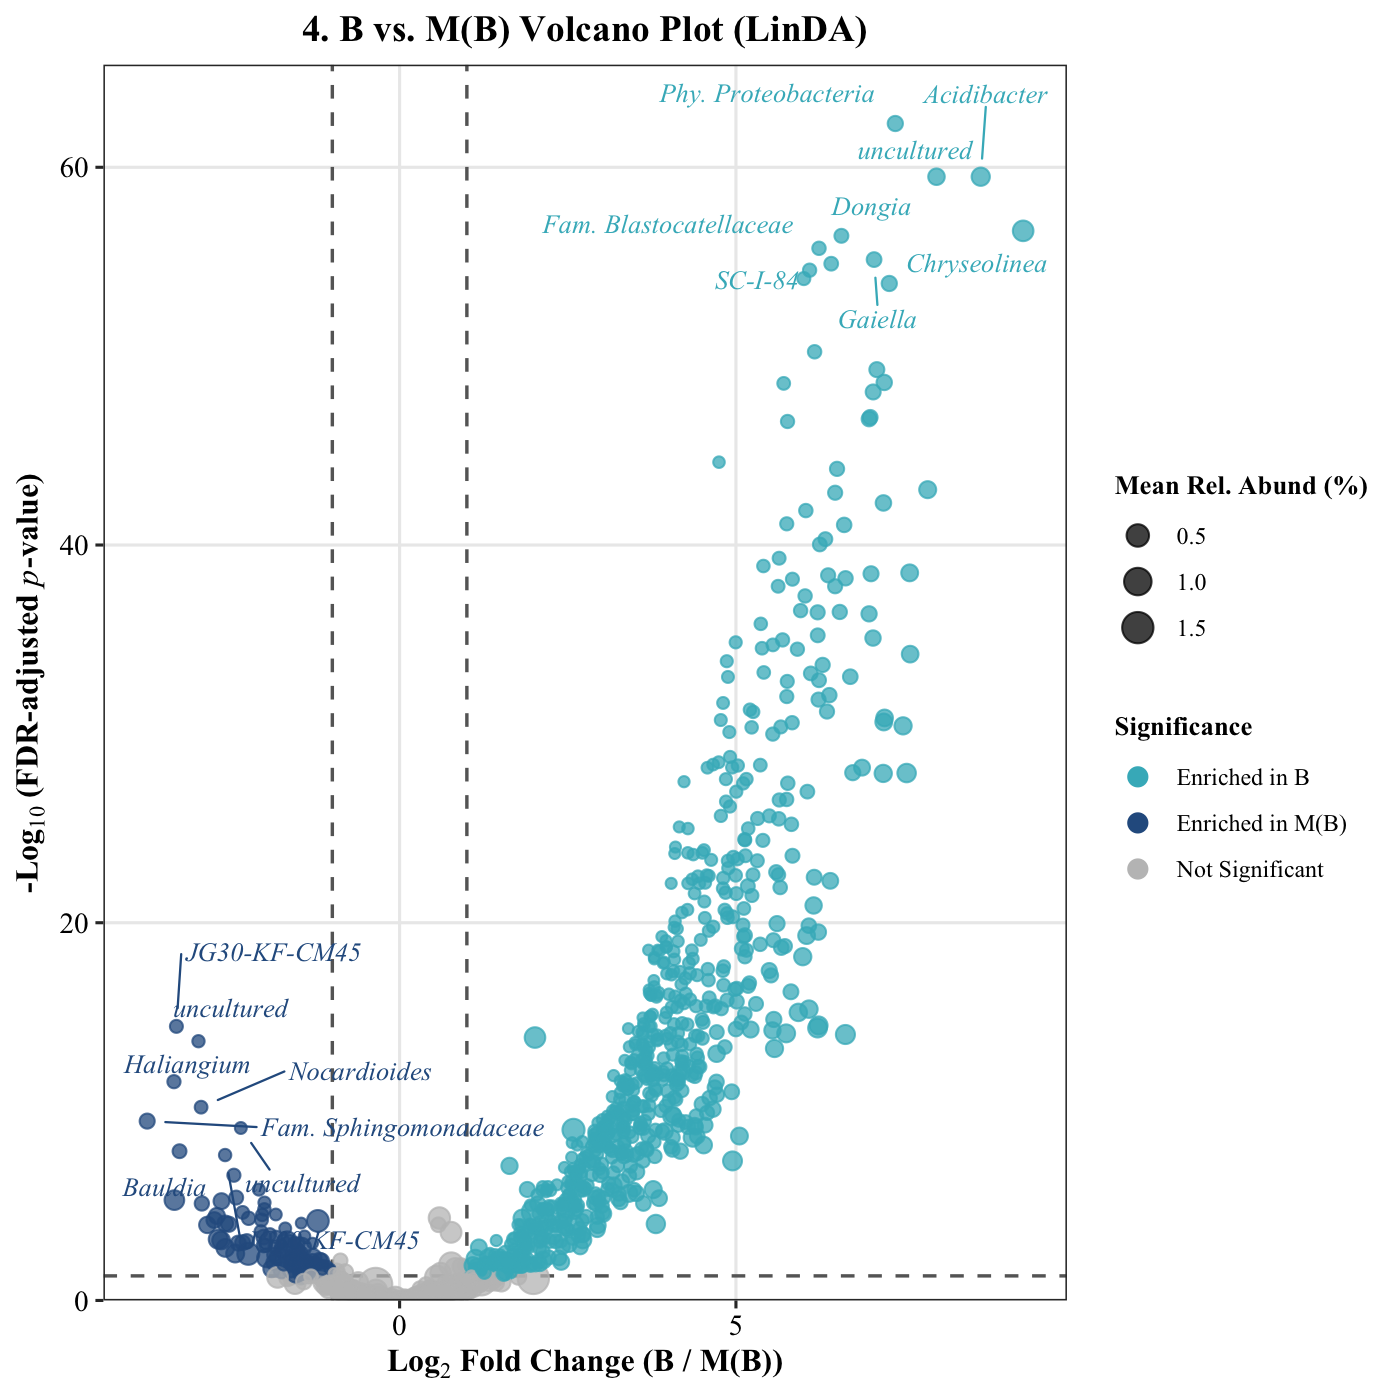
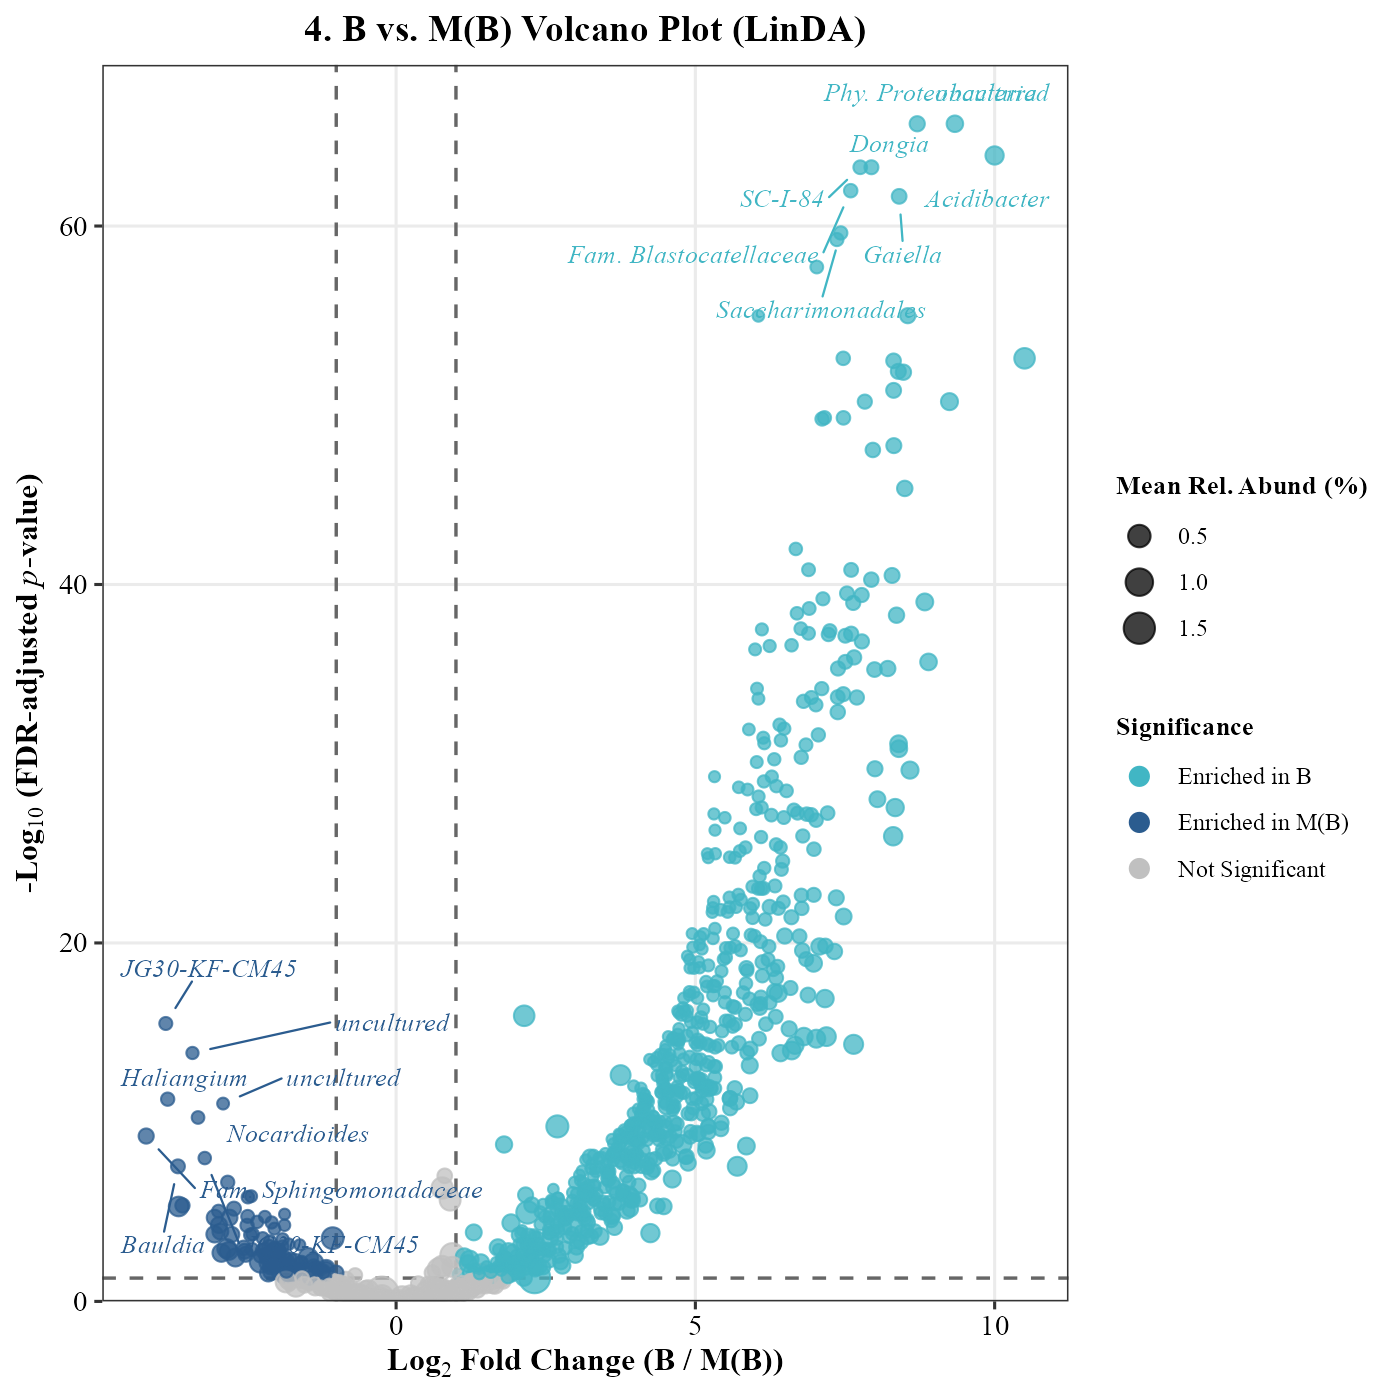
Rerun LinDA on the unrarefied table with imputed zeros; update figures 078-084

diff --git a/logs/2026-08-24_01_Differential_Abundance_and_PICRUSt2.md b/logs/2026-08-24_01_Differential_Abundance_and_PICRUSt2.md
@@ -1,11 +1,12 @@
 # Differential Abundance (LinDA) and PICRUSt2 Pathways (N = 110)
 
 **Date:** 2026-08-24
+**Updated:** 2026-11-16 (Sections 1–3 rerun on the unrarefied table; Figures 078–084 replaced)
 **Stage:** LinDA for each contrast; most enriched and depleted ASVs; fold-change heatmap; group-exclusive ASVs; differential abundance of PICRUSt2 pathways; pathway heatmap
 **Cohort:** five batches, original labels; N = 110 (`GB_Control` 33, `GB_Treatment` 33, `GJ_Control` 22, `GJ_Treatment` 22). The exclusive-ASV table (Section 4) is from the six-batch set (N = 134).
 **Script:** `modules/13_linda_and_picrust2_functional.R`; the same code is in `pipeline/run_analysis.R` (sections 4-1 to "PICRUSt2 Sample-Level Heatmap")
 **Platform:** R 4.6.1 (`aarch64-apple-darwin23`)
-**Input:** `07_diversity_16S/core_metrics/rarefied_table.qza`, `05_taxonomy_16S/taxonomy_16S.qza`, `picrust2_out_16S/pathways_out/path_abun_unstrat.tsv.gz`, `metadata_P_generation.tsv`
+**Input:** `05_taxonomy_16S/table_16S_clean.qza` (Sections 1–3), `07_diversity_16S/core_metrics/rarefied_table.qza` (Section 4), `05_taxonomy_16S/taxonomy_16S.qza`, `picrust2_out_16S/pathways_out/path_abun_unstrat.tsv.gz`, `metadata_P_generation.tsv`
 
 ---
 
@@ -16,50 +17,62 @@ Each treatment was compared with its own control (GB: 33 vs 33; GJ: 22 vs 22), w
 ```r
 set.seed(42)
 linda_res <- linda(
-  feature.dat = counts_gb,      # rarefied counts, GB samples only
+  feature.dat = counts_gb,      # unrarefied counts, GB samples only
   meta.dat = meta_linda,
   formula = "~ Treatment_Group",
   alpha = 0.05,
   prev.filter = 0.10,
-  mean.abund.filter = 0.0001
+  mean.abund.filter = 0.0001,
+  adaptive = FALSE,
+  zero.handling = "imputation"
 )
 ```
 
-* Input: the rarefied 16S table (27,000 reads per sample).
+* Input: the unrarefied, taxonomy-filtered 16S table (`05_taxonomy_16S/table_16S_clean.qza`; 27,237–156,196 reads per sample). LinDA corrects for read depth itself, so the rarefied table is not needed.
+* Zeros were imputed (`zero.handling = "imputation"`). Treated samples had fewer reads than their controls (median 69,404 vs 78,025 in GB; 50,307 vs 79,835 in GJ), and LinDA's own check (the default `adaptive = TRUE`) selected imputation in both contrasts. With `adaptive = TRUE`, MicrobiomeStat 1.4 printed "Imputation approach is used.", but its results differed from a run with imputation set explicitly (21 GB and 57 GJ ASVs changed their call). Imputation was therefore set explicitly (`adaptive = FALSE`).
 * ASVs present in fewer than 10% of the samples of a contrast were removed (`prev.filter = 0.10`).
 * No set or batch term was included in the model.
 * ASVs with FDR-adjusted p < 0.05 and log2FC ≥ 1 were called enriched in the treatment; those with FDR < 0.05 and log2FC ≤ −1 were called enriched in the control (depleted).
+* Full results were written to `LinDA_ASV_GB_Treatment_vs_GB_Control.csv` and `LinDA_ASV_GJ_Treatment_vs_GJ_Control.csv` (not in the repository).
+
+| | GB | GJ |
+| :--- | ---: | ---: |
+| ASVs tested | 1,496 | 1,358 |
+| Enriched in the treatment | 735 | 698 |
+| Enriched in the control (depleted) | 121 | 99 |
 
 ![B vs. M(B) volcano plot](../assets/078_16S_GB_Volcano_Plot.png)
 
 ![J vs. M(J) volcano plot](../assets/079_16S_GJ_Volcano_Plot.png)
 
 * In both contrasts, many more ASVs were enriched in the treated group than in the control.
-* **GB (Figure 078):** −log10(FDR) up to about 62, with log2FC up to about 9. Labelled enriched ASVs: *Acidibacter*, *Dongia*, *Chryseolinea*, *Gaiella*, SC-I-84, a Blastocatellaceae ASV, an "uncultured" ASV and an ASV classified only to Proteobacteria. Labelled depleted ASVs: *Haliangium*, *Bauldia*, *Nocardioides*, a Sphingomonadaceae ASV, JG30-KF-CM45 and "uncultured" ASVs.
-* **GJ (Figure 079):** −log10(FDR) up to about 48. Labelled enriched ASVs: *Porphyrobacter*, *Dokdonella*, *Pseudolabrys*, WD2101_soil_group, *Sphingomonas*, *Gemmatimonas*, Pir4_lineage and JGI_0001001-H03. Labelled depleted ASVs: Xanthobacteraceae, Sphingomonadaceae and Devosiaceae ASVs, *Parafilimonas*, *Anaeromyxobacter*, *Candidatus* Solibacter, and other *Pseudolabrys* and *Acidibacter* ASVs.
+* **GB (Figure 078):** −log10(FDR) up to 65.7; log2FC from −4.2 to 10.5. Labelled enriched ASVs: an "uncultured" ASV, an ASV classified only to Proteobacteria, *Acidibacter*, *Dongia*, SC-I-84, a Blastocatellaceae ASV, *Gaiella* and Saccharimonadales. Labelled depleted ASVs: two JG30-KF-CM45 ASVs, *Haliangium*, *Nocardioides*, a Sphingomonadaceae ASV, *Bauldia* and two "uncultured" ASVs.
+* **GJ (Figure 079):** −log10(FDR) up to 53.8; log2FC from −5.4 to 11.0. Labelled enriched ASVs: *Porphyrobacter*, JGI_0001001-H03, *Pseudolabrys*, *Gemmatimonas*, Pir4_lineage, *Dokdonella*, WD2101_soil_group and *Sphingomonas*. Labelled depleted ASVs: Xanthobacteraceae, Sphingomonadaceae and Devosiaceae ASVs, *Pseudolabrys*, *Acidibacter*, *Anaeromyxobacter*, *Parafilimonas* and an "uncultured" ASV.
+
+**Earlier version.** Until 2026-11-16, Sections 1–3 used the rarefied table (27,000 reads per sample, about 37% of the clean reads) with LinDA's default zero handling. The overall pattern and most labelled taxa were the same; the numbers of significant ASVs were not recorded.
 
 ---
 
 ## 2. Most enriched and most depleted ASVs
 
-For each contrast, the 20 enriched ASVs with the largest log2FC and the 20 depleted ASVs with the most negative log2FC are shown as relative abundance per sample. ASV IDs are given as their first five characters.
+For each contrast, the 20 enriched ASVs with the largest log2FC and the 20 depleted ASVs with the most negative log2FC are shown as relative abundance per sample (unrarefied table). ASV IDs are given as their first five characters.
 
 ![Top 20 enriched ASVs, GB](../assets/080_16S_GB_Top20_LargeShift_Taxa_Boxplot.png)
 
 ![Top 20 enriched ASVs, GJ](../assets/081_16S_GJ_Top20_LargeShift_Taxa_Boxplot.png)
 
-* **GB (Figure 080):** for example *Chryseolinea* (`8e3a6`), *Acidibacter* (`c1b63`), "uncultured" (`d9c97`), *Candidatus* Adlerbacteria (`939b3`), BIrii41 (`1b36c`), *Cerasicoccus* (`21f4c`) and *Terrimonas* (`7e4b8`). In `GB_Control` these ASVs were absent or present at low levels; the highest control values, about 0.15%, were for WD2101_soil_group (`744f6`) and *Lacunisphaera* (`f65a2`).
-* **GJ (Figure 081):** for example WD2101_soil_group (`6cb5d`), Blastocatellaceae (`64c85`, `3230d`), *Streptomyces* (`93120`), *Pseudolabrys* (`4ea1e`), *Candidatus* Kaiserbacteria (`adc5e`), Parcubacteria (`4f235`), *Dokdonella* (`df21d`) and *Porphyrobacter* (`d8831`). In `GJ_Control` these ASVs were absent or present at about 0.05% or less in a few samples.
+* **GB (Figure 080):** for example *Chryseolinea* (`8e3a6`), *Acidibacter* (`c1b63`), "uncultured" (`d9c97`), *Candidatus* Adlerbacteria (`939b3`), BIrii41 (`1b36c`), *Cerasicoccus* (`21f4c`) and *Terrimonas* (`7e4b8`). Ten of the 20 ASVs were not detected in any `GB_Control` sample, and the others were found in at most 5 of 33 controls; the highest control value was 0.14% (*Lacunisphaera*, `f65a2`). All 20 were present in at least 32 of the 33 treated plants.
+* **GJ (Figure 081):** for example WD2101_soil_group (`6cb5d`), Blastocatellaceae (`64c85`, `3230d`), *Streptomyces* (`93120`), *Pseudolabrys* (`4ea1e`), *Candidatus* Kaiserbacteria (`adc5e`), Parcubacteria (`4f235`), *Dokdonella* (`df21d`) and *Porphyrobacter* (`d8831`). Fifteen of the 20 ASVs were not detected in any `GJ_Control` sample, and the others were found in at most 4 of 22 controls, at 0.04% or less. All 20 were present in at least 21 of the 22 treated plants.
 
-These ASVs were absent or rare in the controls and present in most treated plants. This is consistent with their introduction by the soil suspensions. The soil suspensions themselves are not among the sequenced samples, so their source is not shown directly.
+These ASVs were absent or rare in the controls and present in almost all treated plants. This is consistent with their introduction by the soil suspensions. The soil suspensions themselves are not among the sequenced samples, so their source is not shown directly.
 
 ![Top 20 depleted ASVs, GB](../assets/082_16S_GB_Top20_N_LargeShift_Taxa_Boxplot.png)
 
 ![Top 20 depleted ASVs, GJ](../assets/083_16S_GJ_Top20_N_LargeShift_Taxa_Boxplot.png)
 
-* **GB (Figure 082):** for example Sphingomonadaceae (`059bb`, `04c66`), *Haliangium* (`88d07`), *Bauldia* (`6a8af`, `62e24`), *Nocardioides* (`d4ce3`, `5375e`, `9785a`), JG30-KF-CM45 (`aeb74`, `fabea`) and *Parafilimonas* (`487ed`).
+* **GB (Figure 082):** for example Sphingomonadaceae (`059bb`, `04c66`), *Haliangium* (`88d07`), *Bauldia* (`6a8af`, `62e24`), *Nocardioides* (`d4ce3`, `5375e`), JG30-KF-CM45 (`aeb74`, `fabea`) and *Parafilimonas* (`487ed`).
 * **GJ (Figure 083):** for example Sphingomonadaceae (`04c66`, `059bb`, `07822`), Xanthobacteraceae (`f8ce1`), Devosiaceae (`430ec`), *Gemmata* (`73c81`), *Parafilimonas* (`487ed`), *Pseudolabrys* (`e038b`) and *Candidatus* Solibacter (`36ff8`).
-* Some depleted ASVs were not detected in any treated sample (for example *Nocardioides* `d4ce3`, JG30-KF-CM45 `fabea` and "uncultured" `24bdb` in GB; Xanthobacteraceae `f8ce1` in GJ). Others remained at low levels in some treated plants (for example Sphingomonadaceae `059bb`, up to about 0.09% in GB).
+* Some depleted ASVs were not detected in any treated sample (GB: "uncultured" `24bdb`, *Nocardioides* `d4ce3`, JG30-KF-CM45 `fabea` and Rhizobiaceae `3eb74`; GJ: Xanthobacteraceae `f8ce1` and *Pseudolabrys* `e038b`). Others remained at low levels in some treated plants (for example Sphingomonadaceae `059bb`, in 7 of 33 GB-treated plants at up to 0.07%).
 * Relative abundances cannot distinguish a loss of these taxa from dilution by the taxa added with the soil.
 
 ---
@@ -68,9 +81,9 @@ These ASVs were absent or rare in the controls and present in most treated plant
 
 ![LinDA heatmap](../assets/084_16S_Heatmap.png)
 
-* Rows: all ASVs enriched or depleted (FDR < 0.05, |log2FC| ≥ 1) in at least one contrast. Rows are clustered (Euclidean distance, complete linkage); values are clamped to ±8.
+* Rows: the 1,373 ASVs enriched or depleted (FDR < 0.05, |log2FC| ≥ 1) in at least one contrast. Rows are clustered (Euclidean distance, complete linkage); values are clamped to ±8.
 * An ASV missing from one contrast's output (for example because it was removed by the prevalence filter) is shown as 0 (`values_fill = 0`). A white cell can therefore mean "no change" or "not tested".
-* The largest block contains ASVs that are higher in `GB_Treatment` only. Other blocks contain ASVs higher in `GJ_Treatment` only, ASVs higher in both treatments, and smaller groups of ASVs lower in one or both treatments.
+* The largest groups are ASVs enriched only in `GB_Treatment` (484) and only in `GJ_Treatment` (447), followed by ASVs enriched in both treatments (247). Most ASVs in the one-contrast groups were not tested in the other contrast (432 of the 484 and 387 of the 447). Smaller groups are depleted in GB only (92), in GJ only (70) or in both (25); 8 ASVs changed in opposite directions.
 
 ---
 

diff --git a/README.md b/README.md
@@ -110,7 +110,7 @@ Steps 1–6 were run in QIIME 2 2024.10; steps 7–10 in R 4.6.1 unless stated. 
 5. **16S tree** with MAFFT and FastTree, midpoint-rooted (`align-to-tree-mafft-fasttree`). No ITS2 tree.
 6. **Rarefaction and core diversity metrics:** 27,000 reads per sample (16S) and 8,600 (ITS2).
 7. **Alpha and beta diversity:** observed features, Shannon, Gini–Simpson and Faith's PD; Kruskal–Wallis tests with FDR-adjusted pairwise Wilcoxon tests. PCoA (`cmdscale`) and NMDS (`vegan::metaMDS`, k = 2). PERMANOVA (`vegan::adonis2`, `~ Treatment_Group`, 999 permutations, `set.seed(42)`) and dispersion tests (`betadisper`, `permutest`).
-8. **Differential abundance of ASVs** with LinDA (`MicrobiomeStat::linda`) on the rarefied table, `~ Treatment_Group`, separately for `GB_Treatment` vs `GB_Control` and `GJ_Treatment` vs `GJ_Control`. ASVs in fewer than 10% of samples were removed (`prev.filter = 0.10`, `mean.abund.filter = 0.0001`). Significance: FDR < 0.05 and |log2FC| ≥ 1. The model has no batch or set term.
+8. **Differential abundance of ASVs** with LinDA (`MicrobiomeStat::linda`) on the unrarefied, taxonomy-filtered table from step 4, `~ Treatment_Group`, separately for `GB_Treatment` vs `GB_Control` and `GJ_Treatment` vs `GJ_Control`. Zeros were imputed (`zero.handling = "imputation"`, `adaptive = FALSE`) because treated samples had fewer reads than their controls. ASVs in fewer than 10% of samples were removed (`prev.filter = 0.10`, `mean.abund.filter = 0.0001`). Significance: FDR < 0.05 and |log2FC| ≥ 1. The model has no batch or set term.
 9. **Functional prediction** with PICRUSt2 from the unrarefied, taxonomy-filtered 16S table (27,767 ASVs): EPA-ng placement, castor maximum-parsimony prediction, NSTI cut-off 2.0 (171 ASVs excluded), MetaCyc pathways. Pathways were compared with LinDA (`~ Treatment_Group`, `prev.filter = 0.1`, `zero.handling = "pseudo-count"`). `ggpicrust2` was used only to add pathway names.
 10. **Taxonomic composition:** mean relative abundance per group from phylum to genus (rarefied table).
 
@@ -132,7 +132,7 @@ Steps 1–6 were run in QIIME 2 2024.10; steps 7–10 in R 4.6.1 unless stated. 
 * Dispersion also differed between groups (betadisper p ≤ 0.002 in all eight tests), so these R² values include differences in spread as well as in group centres.
 * The two control groups differed in composition (six-batch standard set: R² 0.08–0.11, p = 0.001). Each treatment was therefore compared with its own control.
 
-**Differential abundance (LinDA).** In both contrasts, many more ASVs were enriched in the treated group than in the control. Most of the strongest enriched ASVs were absent or rare in the controls (for example *Acidibacter*, *Chryseolinea* and *Candidatus* Adlerbacteria in GB; WD2101_soil_group, Blastocatellaceae and *Porphyrobacter* in GJ).
+**Differential abundance (LinDA).** In both contrasts, many more ASVs were enriched in the treated group than in the control (GB: 735 vs 121 ASVs; GJ: 698 vs 99). Most of the strongest enriched ASVs were absent or rare in the controls (for example *Acidibacter*, *Chryseolinea* and *Candidatus* Adlerbacteria in GB; WD2101_soil_group, Blastocatellaceae and *Porphyrobacter* in GJ).
 
 **Taxonomic composition.** Both treated groups had less Firmicutes and more Acidobacteriota and Chloroflexi than their controls. In most plots from class to genus level, the most abundant taxa made up a smaller share of reads in treated samples.
 
@@ -146,7 +146,6 @@ Steps 1–6 were run in QIIME 2 2024.10; steps 7–10 in R 4.6.1 unless stated. 
 
 * **Unbalanced and partly confounded design.** The GJ groups have 22 samples from two batches; the GB groups have 33 from three. Each batch contains one treated and one control set, and the GB and GJ experiments were grown at different times. GB vs GJ comparisons therefore mix soil origin with experiment (time), and set-to-set differences are visible in several analyses (2026-07-23_02, 2026-08-10_01, 2026-08-24_01). No model includes a set or batch term.
 * **Metadata column name.** The column `Sequencing_Batch` holds the set code (`B1`, `M1`, …), not the batch name (`GB1`, …).
-* **LinDA input.** LinDA was run on the rarefied table (Section 4, step 8).
 * **Exploratory logs.** Logs 2026-07-24_02 and 2026-07-25_01 use PCoA-derived labels. They are kept as a record and are not used for the final results.
 
 ---
